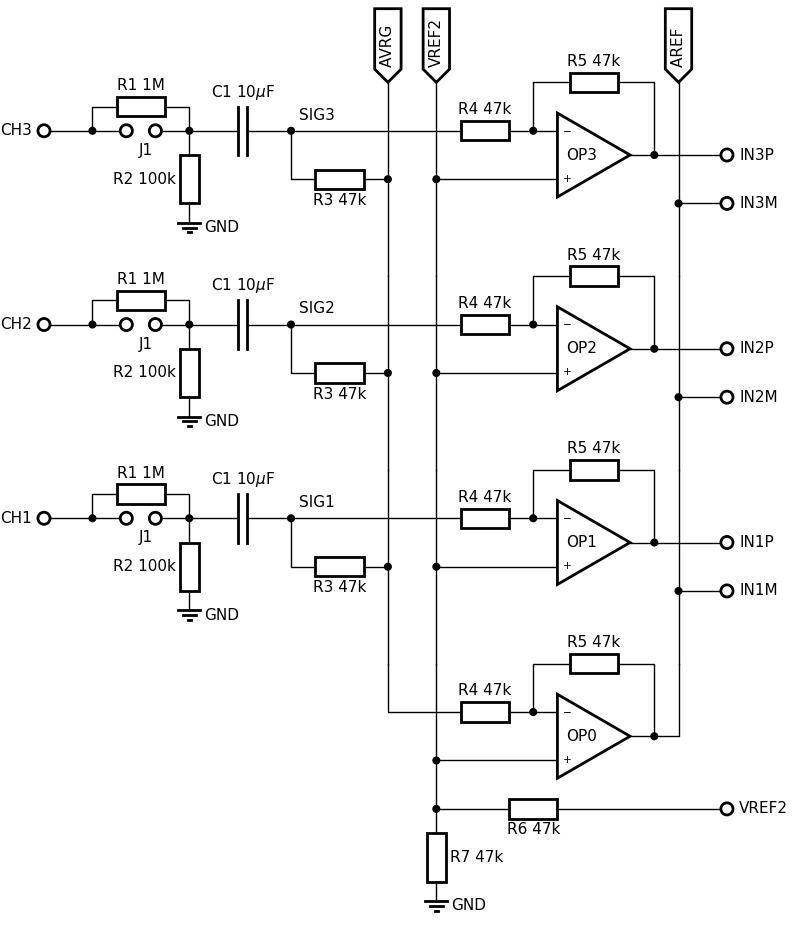
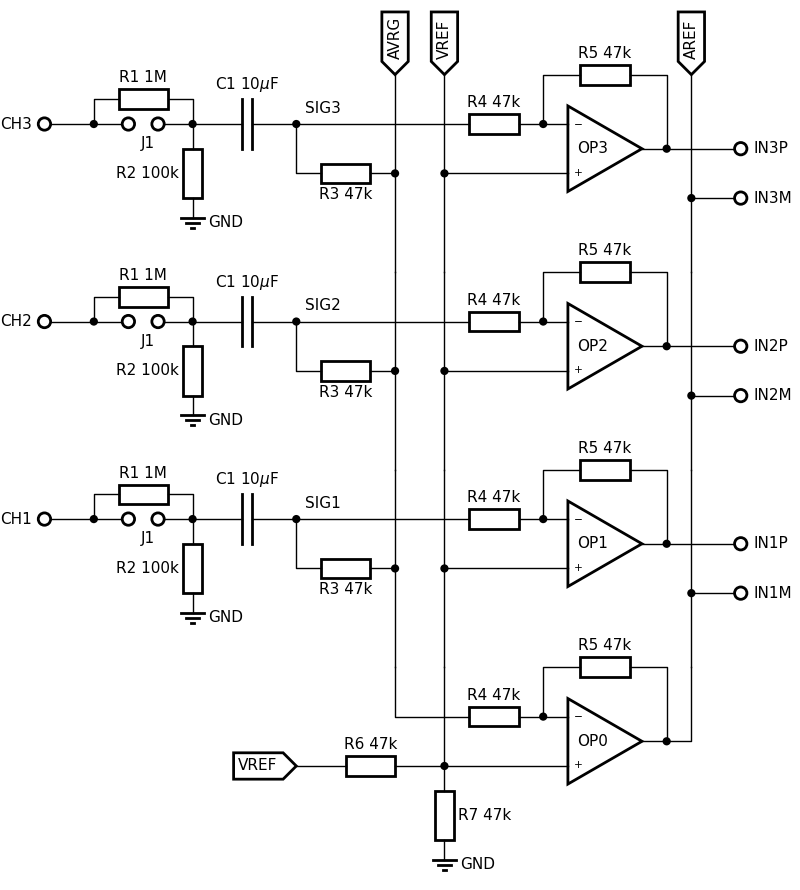
[R5.0] update on power supply and voltage reference for opamps

Changed region(s): [[0.0, 0.0, 1.0, 1.0]]

diff --git a/R5.0/amplifiers.py b/R5.0/amplifiers.py
@@ -38,7 +38,7 @@ def preamp(pos, index, show_bus=True):
     nrc = ax.node(r3r.right(0.5))
     ax.connect((ngr, r3l, None, r3r, nrc))
     if show_bus:
-        nc = ax.bus(nrc.up(2), 'AVRG ', 'north')
+        nc = ax.bus(nrc.up(2), 'AVRG', 'north')
         ax.connect((nrc.down(2), nc))
     else:
         ax.connect((nrc.down(2), nrc.up(2)))
@@ -46,7 +46,7 @@ def preamp(pos, index, show_bus=True):
     np = ax.node(pp.left(2.5))
     ax.connect((np.down(2), np,  pp))
     if show_bus:
-        nr = ax.bus(np.up(2), 'VREF2', 'north')
+        nr = ax.bus(np.up(2), 'VREF', 'north')
         ax.connect((np, nr))
     else:
         ax.connect((np, np.up(2)))
@@ -65,7 +65,7 @@ def preamp(pos, index, show_bus=True):
     nm1 = ax.node(ng2.right(0.5).down(1))
     nm = ax.pin(nm1.right(1), f'IN{1 + index%4}M', 'right')
     if show_bus:
-        na = ax.bus(nm1.up(2.5), 'AREF ', 'north')
+        na = ax.bus(nm1.up(2.5), 'AREF', 'north')
         ax.connect((na, nm1, nm))
         ax.connect((nm1, nm1.down(1.5)))
     else:
@@ -87,13 +87,12 @@ def refamp(pos):
 
     npr = ax.node(pp.left(2.5))
     ax.connect((npr.up(2), npr, pp))
-    nrg = ax.node(npr.down(1))
-    r6b, r6t = ax.resistance_v(nrg.down(1), f'R7 {R7}', 'right')
+    r6b, r6t = ax.resistance_v(npr.down(1), f'R7 {R7}', 'right')
     gndr = ax.ground(r6b.down(0.5), 'GND', 'right')
-    ax.connect((npr, nrg, r6t, None, r6b, gndr))
-    r7l, r7r = ax.resistance_h(nrg.right(2), f'R6 {R6}', 'bottom')
-    nr2 = ax.pin(r7r.right(3.5), 'VREF2', 'right')
-    ax.connect((nrg, r7l, None, r7r, nr2))
+    ax.connect((npr, npr, r6t, None, r6b, gndr))
+    r7l, r7r = ax.resistance_h(npr.left(1.5), f'R6 {R6}', 'top')
+    nr2 = ax.bus(r7l.left(1), 'VREF', 'left')
+    ax.connect((npr, r7r, None, r7l, nr2))
 
     ng2 = ax.node(po.right(0.5))
     no = ng2.right(0.5).up(1.5)
@@ -106,14 +105,14 @@ def refamp(pos):
 
 plt.rcParams['font.size'] = 11
 
-fig, ax = plt.subplots(figsize=(8, 9.3))
+fig, ax = plt.subplots(figsize=(8, 8.9))
 fig.subplots_adjust(nomargins=True)
 ax.show_spines('')
 #ax.set_xticks_off()
 #ax.set_yticks_off()
 
-ax.set_xlim(0, 16.5)
-ax.set_ylim(-4, 15.2)
+ax.set_xlim(0, 16.2)
+ax.set_ylim(-3, 15)
 ax.set_aspect('equal')
 
 preamp((12, 12), 2, True)

diff --git a/R5.0/README.md b/R5.0/README.md
@@ -155,6 +155,14 @@ by configuring the TLV320ADC appropriately.
 
 ### Input ranges:
 
+#### ADC
+
+[TI TLV320ADC5140](tlv320adc5140.pdf)
+
+- single ended, AC coupled, with decoupling: saturates at +-1.375V  (p-p amplitude of 2.75V!)
+- single ended, AC coupled, without decoupling: saturates at 0V - 2.75V, DC offset at 1.375V, not so tolerant against offsets.
+- single ended, DC coupled, without decoupling: saturates at 0V - 2.75V, DC offset at 1.375V, it tolerates negative inputs but they are distorted. DC offset can be quite positive, but not negative. -> matches the output of the preamp!
+
 #### OpAmps
 
 [TI OPA1662](opa1662.pdf)
@@ -175,17 +183,12 @@ In  our setting with unit gain this is 1V - VREF < SIGx < 2*V+ - 2V - VREF:
 - VREF = V+/2: 1V - V+/2 < SIGx < 3/2*V+ - 2V, i.e. -0.65V < SIGx < 2.95V
 - VREF = GND: 1V < SIGx < 2*V+ - 2V, i.e. 1V < SIGx < 4.6V
 
-#### ADC
+#### OpAmp with ADC
 
-[TI TLV320ADC5140](tlv320adc5140.pdf)
+For best results (full range from GND to 2.75V measurements) we need
 
-
-### TODO
-
-
-- Make shure that VREF2 in the circuit is AVDD/2 or
-  VREF is positive supply for opam and VREF2 is VREF/2!
-- Measure input of TLV320ADC in DC and AC: how does it deal with negative inputs?
+- positive supply of opamps at AVDD=3.3V (not 2.75V!)
+- VREF for opamps at 1.75V = AVDD/2 (neither 2.75V nor 2.75V/2!)
 
 
 ## Improvements needed over R4.x
